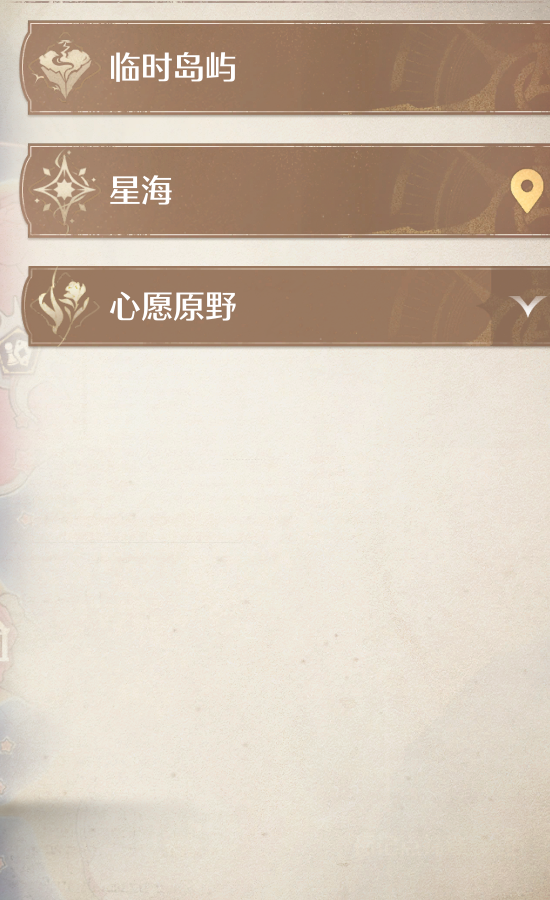
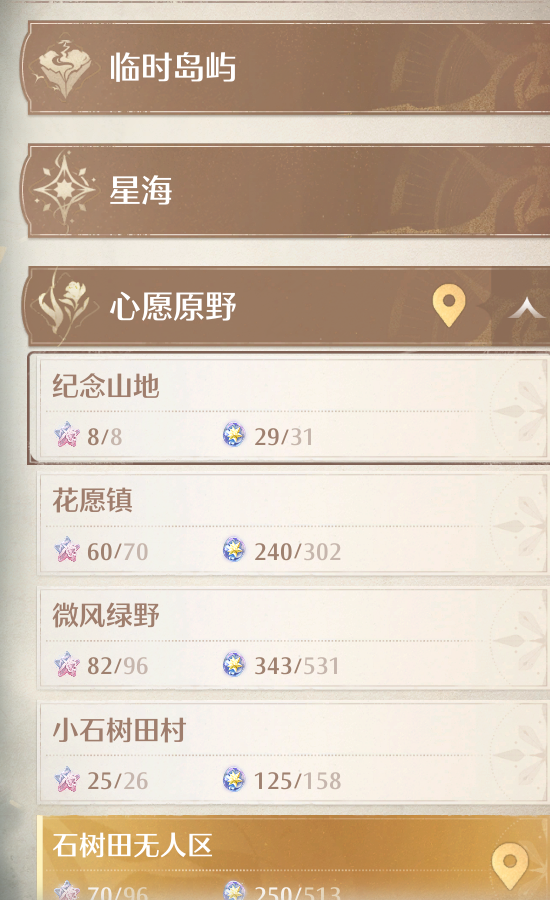
修复地图跳星海失败

diff --git a/Util/util.py b/Util/util.py
@@ -66,6 +66,15 @@ class NikkiUtil:
         # 首先，看看不滚到最底下，能不能直接找到目的地
         target_pos = capture_and_analyze_mission_detail(region, screenshot_path1, destination)
 
+        # 如果找不到，就滚到最上面，看看能不能找到目的地
+        if not target_pos:
+            # 鼠标移动到（1555，555）
+            pyautogui.moveTo(1555, 555)
+            # 鼠标滚轮向下滑动1000
+            pyautogui.scroll(10000)
+            target_pos = capture_and_analyze_mission_detail(region, screenshot_path1, destination)
+
+
         # 其次，滚到最底下，看看不点击"心愿原野"能不能找到目的地（如果在主世界和星海，这一步就结束了）
         if not target_pos:
             # 鼠标移动到（1555，555）
@@ -80,7 +89,7 @@ class NikkiUtil:
             # 鼠标移动到（1555，555）
             pyautogui.moveTo(1555, 555)
             # 鼠标滚轮向下滑动1000
-            pyautogui.scroll(-10000)
+            pyautogui.scroll(10000)
             target_pos = capture_and_analyze_mission_detail(region, screenshot_path1, destination)
         # 把坐标转为相对于屏幕左上角的坐标，1300 100是截图的图片左上角顶点
         if target_pos:

diff --git a/test.py b/test.py
@@ -13,9 +13,8 @@ util = NikkiUtil()
 
 util.activate_window_by_title()
 
-# util.wait_and_click_image('巨石岩仔')
-# StarSeaDaily().get_diamond()
-# energyTask = EnergyTask()
-#m
-# energyTask.enter_monster_trial(num="one")
-StarSeaTask().ring()
+# StarSeaTask().execute()
+util.map_jump(coordinates=[
+            (1410, 553)  # 传送锚点位置1 主岛
+        ], destination="星海")
+
